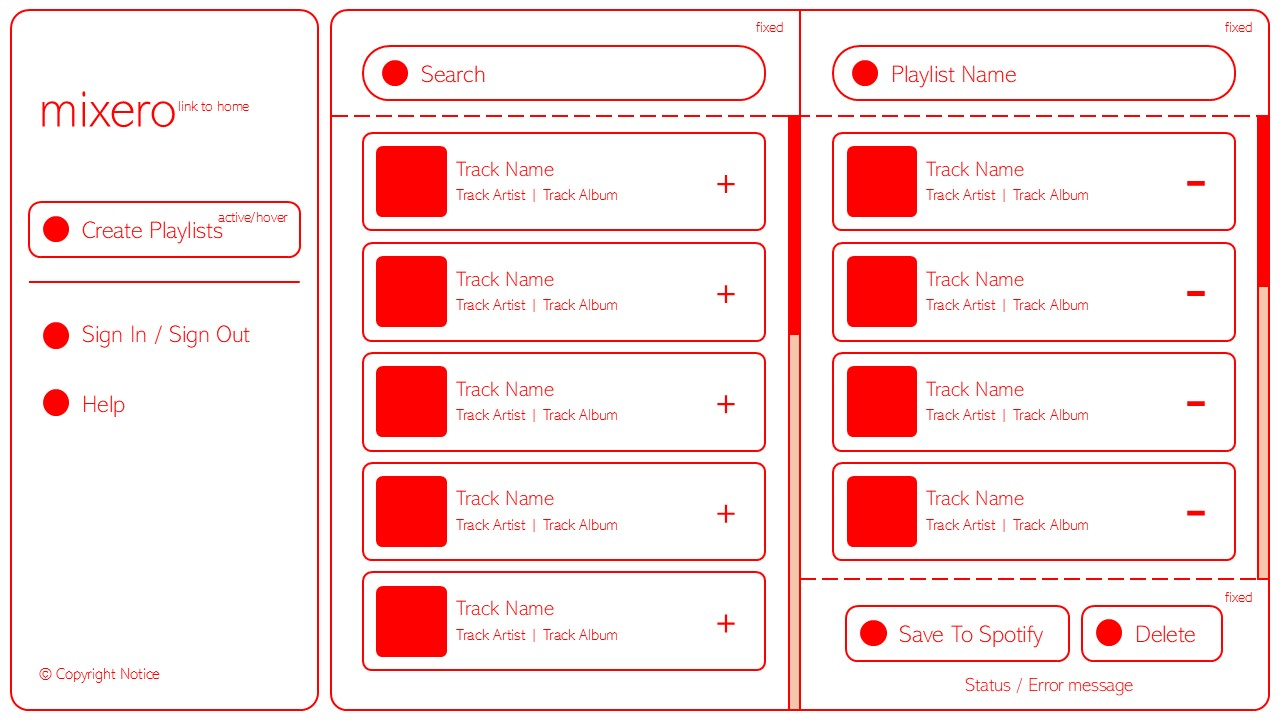
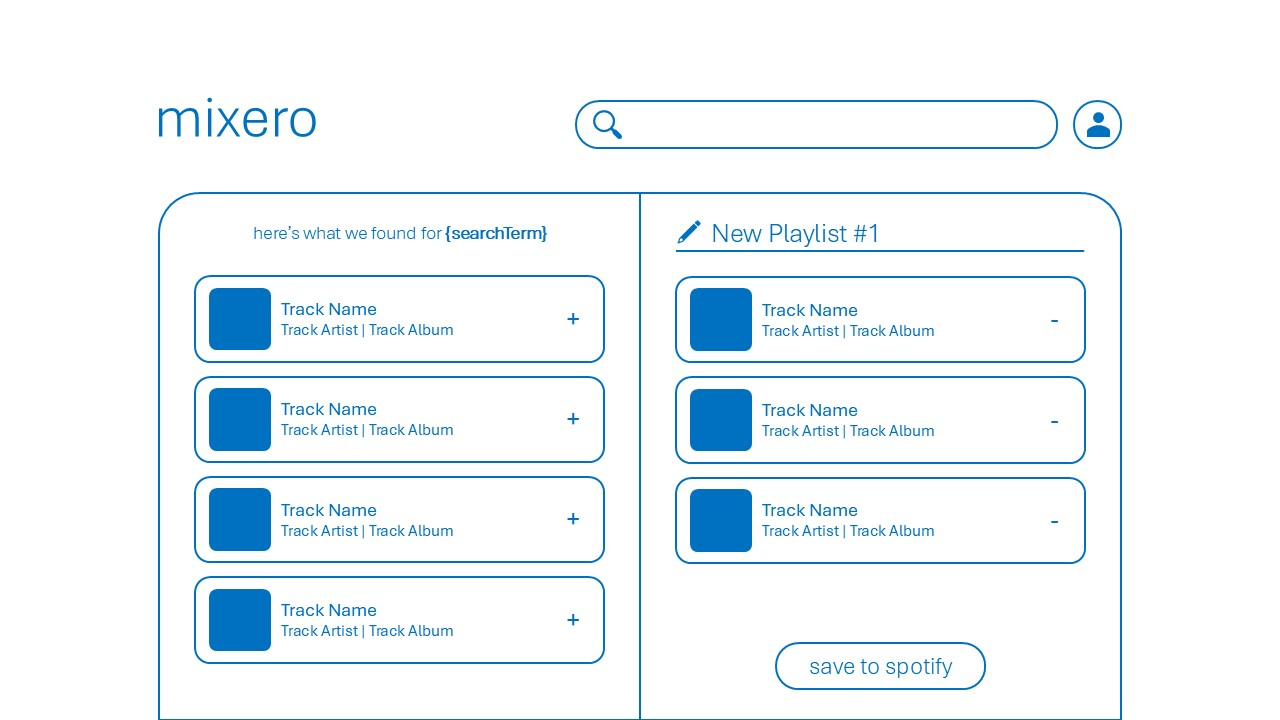
Update wireframe and layout; add header styling

diff --git a/src/components/SearchBar/SearchBar.module.css b/src/components/SearchBar/SearchBar.module.css
@@ -1,0 +1,32 @@
+.searchBar {
+    display: inline-flex;
+    background-color: white;
+    border-radius: 1.5rem;
+    height: 3rem;
+    width: 25rem;
+    overflow: hidden;
+}
+
+.searchInput {
+    background-color: transparent;
+    border: none;
+    outline: none;
+    font-size: 1rem;
+    height: 100%;
+    width: 100%;
+    padding-right: 1rem;
+}
+
+.searchInput:hover {
+    border: none;
+    outline: none;
+}
+
+.searchButton {
+    display: flex;
+    align-items: center;
+    background-color: transparent;
+    border: none;
+    font-size: 1.5rem;
+    padding: 0 0.5rem 0 1rem;
+}

diff --git a/index.html b/index.html
@@ -1,8 +1,14 @@
-<!doctype html>
+<!DOCTYPE html>
 <html lang="en">
   <head>
     <meta charset="UTF-8" />
     <meta name="viewport" content="width=device-width, initial-scale=1.0" />
+    <link rel="preconnect" href="https://fonts.googleapis.com" />
+    <link rel="preconnect" href="https://fonts.gstatic.com" crossorigin />
+    <link
+      href="https://fonts.googleapis.com/css2?family=Nunito:ital,wght@0,200..1000;1,200..1000&family=Quicksand:wght@300..700&display=swap"
+      rel="stylesheet"
+    />
     <title>Amethyst</title>
   </head>
   <body>

diff --git a/src/components/Header/Header.jsx b/src/components/Header/Header.jsx
@@ -1,0 +1,20 @@
+import styles from "./Header.module.css";
+// Components imports
+import SearchBar from "../SearchBar/SearchBar";
+import { FaUser } from "react-icons/fa6";
+
+const Header = () => {
+  return (
+    <header className={styles.header}>
+      <h1 className={styles.logo}>mixero</h1>
+      <div className={styles.actions}>
+        <SearchBar />
+        <button className={styles.logInOutButton}type="button">
+            <FaUser />
+        </button>
+      </div>
+    </header>
+  );
+};
+
+export default Header;

diff --git a/src/components/SearchBar/SearchBar.jsx b/src/components/SearchBar/SearchBar.jsx
@@ -1,0 +1,19 @@
+import { FaSearch } from "react-icons/fa";
+import styles from "./SearchBar.module.css";
+
+const SearchBar = () => {
+  return (
+    <form className={styles.searchBar}>
+      <button className={styles.searchButton} type="button">
+        <FaSearch />
+      </button>
+      <input
+        className={styles.searchInput}
+        type="search"
+        placeholder="search for a song, album or artist"
+      ></input>
+    </form>
+  );
+};
+
+export default SearchBar;

diff --git a/src/components/Header/Header.module.css b/src/components/Header/Header.module.css
@@ -1,0 +1,27 @@
+.header {
+    display: inline-flex;
+    align-items: flex-end;
+    justify-content: space-between;
+    height: 10rem;
+    width: 100%;
+    margin-bottom: 2rem;
+}
+
+.logo {
+    font-size: 4rem;
+}
+
+.actions {
+    display: inline-flex;
+    align-items: center;
+    gap: 1rem
+}
+
+.logInOutButton {
+    background-color: white;
+    border-radius: 100%;
+    border: none;
+    font-size: 1.5rem;
+    height: 3rem;
+    width: 3rem;
+}

diff --git a/src/App.jsx b/src/App.jsx
@@ -1,7 +1,15 @@
 import styles from "./App.module.css";
+// Component imports
+import ContentArea from "./components/ContentArea/ContentArea";
+import Header from "./components/Header/Header";
 
 const App = () => {
-    return <h1>Amethyst</h1>
+    return (
+        <div className={styles.app}>
+            <Header />
+            <ContentArea />
+        </div>
+    )
 }
 
 export default App;

diff --git a/src/components/ContentArea/ContentArea.jsx b/src/components/ContentArea/ContentArea.jsx
@@ -1,7 +1,11 @@
 import styles from "./ContentArea.module.css";
 
 const ContentArea = () => {
-    return null
+    return (
+        <section className={styles.contentArea}>
+            
+        </section>
+    )
 }
 
 export default ContentArea;

diff --git a/src/reset.css b/src/reset.css
@@ -16,7 +16,7 @@ time, mark, audio, video {
   padding: 0;
   border: 0;
   font-size: 1rem;
-  font-family: Arial, Helvetica, sans-serif;
+  font-family: Quicksand, Arial, Helvetica, sans-serif;
   vertical-align: baseline;
 }
 

diff --git a/src/components/ContentArea/ContentArea.module.css b/src/components/ContentArea/ContentArea.module.css
@@ -1,0 +1,8 @@
+.contentArea {
+    background-color: #0A0A0A;
+    border-radius: 2.5rem;
+    height: 40rem;
+    width: 100%;
+    margin-bottom: 3rem;
+    overflow: hidden;
+}

diff --git a/src/index.css b/src/index.css
@@ -1,0 +1,5 @@
+body {
+    margin: 0 15rem;
+    background-color: #121212;
+    color: white;
+}

diff --git a/src/App.module.css b/src/App.module.css
@@ -1,3 +1,3 @@
-h1 {
-    font-size: 2rem;
+.app {    
+    min-height: 100vh;
 }
